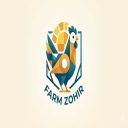
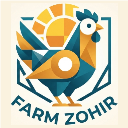
قص اللوغو بدقة لملء الأيقونات وتحديث رقم التخزين المؤقت

diff --git a/sw.js b/sw.js
@@ -1,5 +1,5 @@
 // ===== Zohir PWA Service Worker =====
-const CACHE_NAME = 'zohir-v2';
+const CACHE_NAME = 'zohir-v3';
 const STATIC_ASSETS = [
   '/',
   '/index.html',
